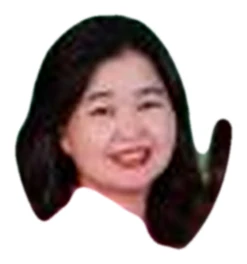
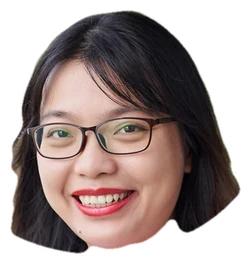
Cảnh mở đầu: mặt cho người test (test01, test02); tất cả mặc áo dài, mỗi người một màu theo mã
Claude-Session: https://claude.ai/code/session_014NvTU2FGoSxuqwznEUZ16q

diff --git a/assets/intro.js b/assets/intro.js
@@ -62,8 +62,10 @@ var W20Intro = (function () {
       '<g><ellipse cx="0" cy="-158" rx="46" ry="50" fill="#2a2230"/><ellipse cx="0" cy="-152" rx="40" ry="44" fill="#ffe2d1"/><path d="M-42 -160 Q-40 -204 0 -204 Q40 -204 42 -160 Q28 -184 8 -178 Q-14 -172 -42 -160Z" fill="#2a2230"/><ellipse cx="-15" cy="-150" rx="5" ry="7" fill="#2a2230"/><ellipse cx="15" cy="-150" rx="5" ry="7" fill="#2a2230"/><circle cx="-26" cy="-138" r="7" fill="#ff9db3" opacity=".6"/><circle cx="26" cy="-138" r="7" fill="#ff9db3" opacity=".6"/><path d="M-7 -133 Q0 -126 7 -133" fill="none" stroke="#c2455f" stroke-width="3" stroke-linecap="round"/></g>';
   }
 
-  function chibi(kind, face) {
-    var SKIN = "#ffe2d1", staff = kind !== "sep", body, sleeve = staff ? "#ffffff" : "#17a589", arm = staff ? 22 : 34;
+  var AD = [["#e8458a", "#c22d6d", "#ffd0e2"], ["#8e63d2", "#6a43ad", "#e4d3ff"], ["#f2a23a", "#d4811a", "#ffe3b3"], ["#2aa5d6", "#1b82b0", "#c9eefc"], ["#e5505b", "#bf3640", "#ffd0d4"], ["#3cb878", "#26935a", "#cdf5df"], ["#f0cf3c", "#cfa91c", "#fff3b0"], ["#ff8a65", "#e0623e", "#ffd9cb"], ["#17a589", "#0f7d68", "#7fe0c8"], ["#4f7de0", "#3459b8", "#d3e0ff"]];
+  function adIdx(id) { var h = 0, t = String(id || "x"); for (var i = 0; i < t.length; i++) h = (h * 31 + t.charCodeAt(i)) >>> 0; return h % AD.length; }
+  function chibi(kind, face, id) {
+    var SKIN = "#ffe2d1", staff = false, body, CL = AD[adIdx(id)], sleeve = CL[0], arm = 34; /* tất cả đều mặc áo dài, mỗi người một màu */
     var legs = staff ?
       '<g transform="translate(-9,-36)"><g class="lg l"><rect x="-5.5" y="0" width="11" height="32" rx="5" fill="' + SKIN + '"/><ellipse cx="0" cy="33" rx="10" ry="5" fill="#20242b"/></g></g><g transform="translate(9,-36)"><g class="lg r"><rect x="-5.5" y="0" width="11" height="32" rx="5" fill="' + SKIN + '"/><ellipse cx="0" cy="33" rx="10" ry="5" fill="#20242b"/></g></g>' :
       '<g transform="translate(-9,-36)"><g class="lg l"><rect x="-8" y="0" width="16" height="34" rx="5" fill="#fffdf8" stroke="#e5e0d2"/><ellipse cx="0" cy="35" rx="10.5" ry="5" fill="#f4d6a0"/></g></g><g transform="translate(9,-36)"><g class="lg r"><rect x="-8" y="0" width="16" height="34" rx="5" fill="#fffdf8" stroke="#e5e0d2"/><ellipse cx="0" cy="35" rx="10.5" ry="5" fill="#f4d6a0"/></g></g>';
@@ -72,12 +74,12 @@ var W20Intro = (function () {
       '<path d="M-26 -101 Q0 -109 26 -101 L20 -72 L-20 -72Z" fill="#ffffff" stroke="#d3dae4" stroke-width="1.5"/><path d="M-9 -104 L0 -89 L9 -104 L3 -106 L0 -98 L-3 -106Z" fill="#eef2f7" stroke="#d3dae4"/>' +
       '<path d="M-6 -103 L0 -80 L6 -103" fill="none" stroke="#0b8a4a" stroke-width="2"/><rect x="-6.5" y="-82" width="13" height="16" rx="2" fill="#fff" stroke="#0b8a4a" stroke-width="1.5"/><rect x="-6.5" y="-82" width="13" height="5" rx="1.5" fill="#0b8a4a"/><rect x="-3.5" y="-72" width="7" height="2" fill="#9bb3a6"/>';
     else body =
-      '<path d="M-18 -72 L-27 -26 L-35 -30 L-22 -74Z" fill="#12846c"/><path d="M18 -72 L27 -26 L35 -30 L22 -74Z" fill="#12846c"/>' +
-      '<path d="M-26 -101 Q0 -109 26 -101 L19 -72 L26 -24 L-26 -24 L-19 -72Z" fill="#17a589"/><path d="M-19 -72 L19 -72" stroke="#0f7d68" stroke-width="2"/>' +
-      '<g fill="#7fe0c8" opacity=".75"><circle cx="-9" cy="-92" r="2.6"/><circle cx="8" cy="-84" r="2.6"/><circle cx="-4" cy="-62" r="2.6"/><circle cx="10" cy="-48" r="2.6"/><circle cx="-12" cy="-40" r="2.6"/></g>' +
-      '<rect x="-9" y="-109" width="18" height="8" rx="3" fill="#0f7d68"/>';
-    var arms = '<g transform="translate(-26,-98)"><g class="ar l"><rect x="-5" y="0" width="10" height="' + arm + '" rx="5" fill="' + sleeve + '" stroke="' + (staff ? "#d3dae4" : "#0f7d68") + '" stroke-width="1"/>' + (staff ? '<rect x="-4" y="' + (arm - 6) + '" width="8" height="18" rx="4" fill="' + SKIN + '"/>' : '') + '<circle cx="0" cy="' + (arm + 12) + '" r="6" fill="' + SKIN + '"/></g></g>' +
-      '<g transform="translate(26,-98)"><g class="ar r"><rect x="-5" y="0" width="10" height="' + arm + '" rx="5" fill="' + sleeve + '" stroke="' + (staff ? "#d3dae4" : "#0f7d68") + '" stroke-width="1"/>' + (staff ? '<rect x="-4" y="' + (arm - 6) + '" width="8" height="18" rx="4" fill="' + SKIN + '"/>' : '') + '<circle cx="0" cy="' + (arm + 12) + '" r="6" fill="' + SKIN + '"/></g></g>';
+      '<path d="M-18 -72 L-27 -26 L-35 -30 L-22 -74Z" fill="'+CL[1]+'"/><path d="M18 -72 L27 -26 L35 -30 L22 -74Z" fill="'+CL[1]+'"/>' +
+      '<path d="M-26 -101 Q0 -109 26 -101 L19 -72 L26 -24 L-26 -24 L-19 -72Z" fill="'+CL[0]+'"/><path d="M-19 -72 L19 -72" stroke="'+CL[1]+'" stroke-width="2"/>' +
+      '<g fill="'+CL[2]+'" opacity=".75"><circle cx="-9" cy="-92" r="2.6"/><circle cx="8" cy="-84" r="2.6"/><circle cx="-4" cy="-62" r="2.6"/><circle cx="10" cy="-48" r="2.6"/><circle cx="-12" cy="-40" r="2.6"/></g>' +
+      '<rect x="-9" y="-109" width="18" height="8" rx="3" fill="'+CL[1]+'"/>';
+    var arms = '<g transform="translate(-26,-98)"><g class="ar l"><rect x="-5" y="0" width="10" height="' + arm + '" rx="5" fill="' + sleeve + '" stroke="' + CL[1] + '" stroke-width="1"/>' + (staff ? '<rect x="-4" y="' + (arm - 6) + '" width="8" height="18" rx="4" fill="' + SKIN + '"/>' : '') + '<circle cx="0" cy="' + (arm + 12) + '" r="6" fill="' + SKIN + '"/></g></g>' +
+      '<g transform="translate(26,-98)"><g class="ar r"><rect x="-5" y="0" width="10" height="' + arm + '" rx="5" fill="' + sleeve + '" stroke="' + CL[1] + '" stroke-width="1"/>' + (staff ? '<rect x="-4" y="' + (arm - 6) + '" width="8" height="18" rx="4" fill="' + SKIN + '"/>' : '') + '<circle cx="0" cy="' + (arm + 12) + '" r="6" fill="' + SKIN + '"/></g></g>';
     return '<g class="walk"><g transform="translate(150,314) scale(.82)"><ellipse cx="0" cy="3" rx="34" ry="7" fill="rgba(0,0,0,.2)"/><g class="bob">' + legs + body + arms + head(face) + '</g></g></g>';
   }
 
@@ -113,7 +115,7 @@ var W20Intro = (function () {
     box.setAttribute("aria-label", kind === "sep" ? "Lá thư có cánh rơi xuống tay Sếp, chạm để đọc" : "Món quà có cánh rơi xuống tay, chạm để mở");
     var face = o.face || "";
     box.innerHTML = '<svg viewBox="0 0 400 360" xmlns="http://www.w3.org/2000/svg" role="img" aria-hidden="true">' + DEFS + building() +
-      '<g transform="translate(0,0)">' + chibi(kind, face) + '</g></svg><div class="ltr"></div>';
+      '<g transform="translate(0,0)">' + chibi(kind, face, o.id) + '</g></svg><div class="ltr"></div>';
     host.innerHTML = ""; host.appendChild(box);
     var svg = box.querySelector("svg"), chg = svg.querySelector(".walk > g > .bob");
     var holder = document.createElementNS("http://www.w3.org/2000/svg", "g"); holder.setAttribute("transform", "translate(150,314) scale(.82)"); holder.innerHTML = kind === "sep" ? letter() : gift(); svg.appendChild(holder);

diff --git a/index.html b/index.html
@@ -133,7 +133,7 @@
 <script src="assets/flowers.js?v=20261013"></script>
 <script src="assets/modules.js?v=202610160421"></script>
 <script src="assets/boxflow.js?v=202610160731"></script>
-<script src="assets/intro.js?v=2"></script>
+<script src="assets/intro.js?v=3"></script>
 <script>
 (function () {
   var $ = function (s) { return document.querySelector(s); };
@@ -206,7 +206,7 @@
     /* cảnh mở đầu: chibi mặc đồng phục đi tới Vietcombank, quà có cánh rơi xuống; chạm để mở hộp quà */
     if (S.to && window.W20Intro && !INTRO) {
       $("#openbox").style.display = "none"; var fid = me ? me.id : "";
-      INTRO = W20Intro.mount($("#vcbscene"), { kind: "staff", face: fid ? "assets/women/" + fid + ".webp?v=" + W20Intro.ver : "", fb: "assets/women/r1.webp?v=" + W20Intro.ver, hint: $("#tapme"), onOpen: function () { ST.opened = 1; save(); unbox(0); } });
+      INTRO = W20Intro.mount($("#vcbscene"), { kind: "staff", id: me ? me.id : "", face: fid ? "assets/women/" + fid + ".webp?v=" + W20Intro.ver : "", fb: "assets/women/r1.webp?v=" + W20Intro.ver, hint: $("#tapme"), onOpen: function () { ST.opened = 1; save(); unbox(0); } });
     }
     $("#openbox").onclick = function () {
       if (!S.to) { toast("Chị/Em nhập email VCB ở ô phía trên trước để mở quà nha 😄"); try { $("#nameinp").focus(); } catch (er) {} return; }

diff --git a/sep.html b/sep.html
@@ -136,7 +136,7 @@
 <script src="assets/flowers.js?v=20261013"></script>
 <script src="assets/modules.js?v=202610160421"></script>
 <script src="assets/boxflow.js?v=202610160731"></script>
-<script src="assets/intro.js?v=2"></script>
+<script src="assets/intro.js?v=3"></script>
 <script src="assets/firebase-sync.js?v=202610190204"></script>
 <script>
 (function () {
@@ -193,7 +193,7 @@
     /* cảnh mở đầu: chibi Sếp mặc áo dài đi tới Vietcombank, lá thư có cánh rơi xuống tay, đọc xong vào cảnh phê duyệt */
     if (S.to && window.W20Intro && !INTRO) {
       $("#openbox").style.display = "none"; var fid = me ? me.id : "";
-      INTRO = W20Intro.mount($("#vcbscene"), { kind: "sep", face: fid ? "assets/women/" + fid + ".webp?v=" + W20Intro.ver : "", fb: "", hint: $("#tapme"),
+      INTRO = W20Intro.mount($("#vcbscene"), { kind: "sep", id: me ? me.id : "", face: fid ? "assets/women/" + fid + ".webp?v=" + W20Intro.ver : "", fb: "", hint: $("#tapme"),
         onOpen: function () { PS.opened = 1; savePS(); FL.show(0, false); } });
     }
     $("#openbox").onclick = function () { PS.opened = 1; savePS(); FL.unbox(0); };
